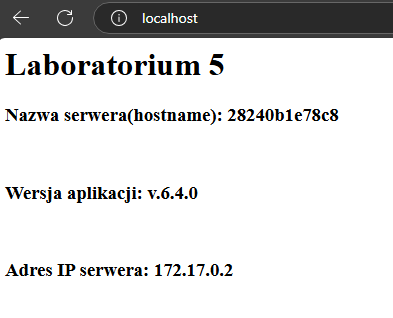
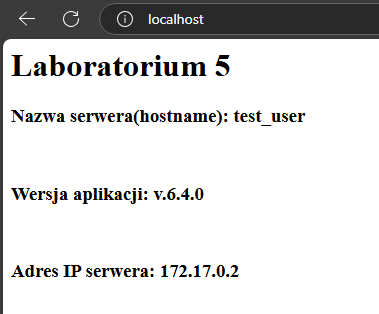
Final commit v1

Changed region(s): [[0.0, 0.0, 1.0, 1.0], [0.1451, 0.0287, 0.2032, 0.086], [0.029, 0.0287, 0.0871, 0.086]]

diff --git a/README.md b/README.md
@@ -54,7 +54,7 @@ docker build --build-arg VERSION=v.6.4.0 -f Dockerfile -t local/lab5:v1 .
 ## Polecenie uruchamiające serwer:
 
 ```
-docker run -d -p 80:3000 --name=lab5 local/lab5:v1
+docker run -d -p 80:3000 --hostname=test_user --name=lab5 local/lab5:v1
 ```
 
 ## Polecenie potwierdzające działanie kontenera i poprawne funkcjonowanie opracowanej aplikacji:
